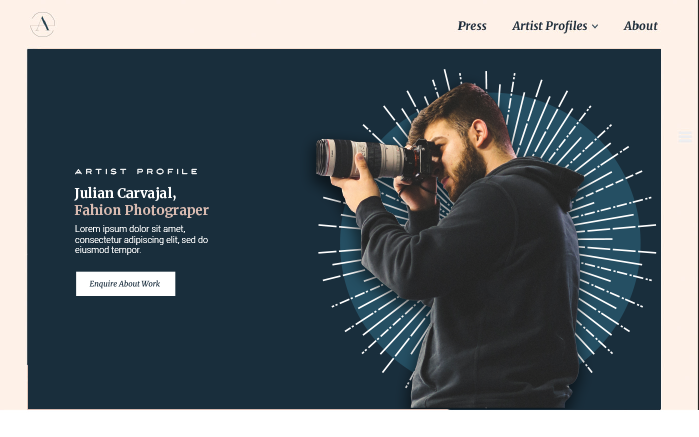
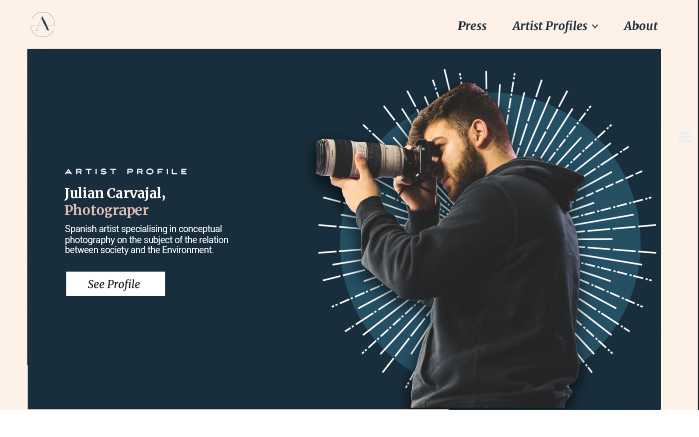
Made some final changes

Changed region(s): [[0.0901, 0.3867, 0.3305, 0.595], [0.0901, 0.6247, 0.2704, 0.6842]]

diff --git a/app/assets/stylesheets/components/_banner.scss b/app/assets/stylesheets/components/_banner.scss
@@ -7,6 +7,10 @@
 	}
 }
 
+.text-lockup {
+	max-width: 600px;
+}
+
 .wrapper-banner {
 	@extend .bg-beige;
 	.banner-content {
@@ -62,13 +66,14 @@
 			width: 100%;
 			height: 89%;
 			background-size: cover;
+			background-repeat: no-repeat;
 			background-position: center;
 		}
 	}
 	.wave {
 		&-top {
 			top: 0;
-			right: 0;
+			right: -1px;
 			width: 70vw;
 		}
 		&-bottom {

diff --git a/app/assets/stylesheets/components/_line_intro.scss b/app/assets/stylesheets/components/_line_intro.scss
@@ -1,5 +1,5 @@
 .line-wrapper {
-	padding: 40px 0;
+	padding: 100px 0 40px 0;
 	position: relative;
 	.title {
 		font-size: 12px;
